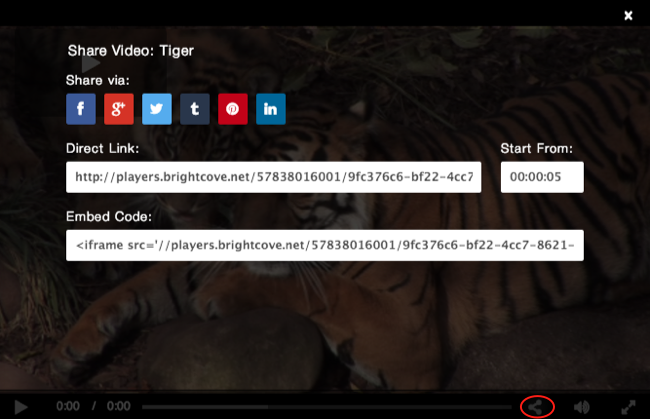
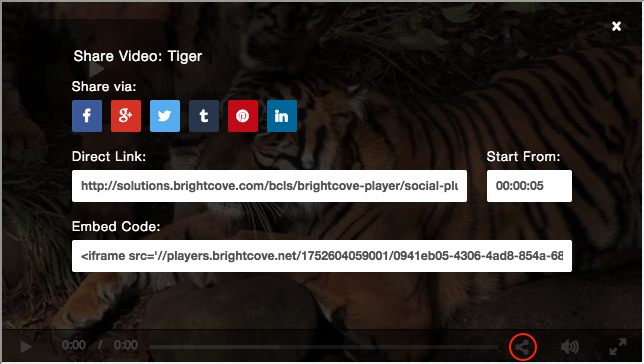
Update BC player social plugin

diff --git a/en/video-cloud/brightcove-player/guides/social-media-plugin.html b/en/video-cloud/brightcove-player/guides/social-media-plugin.html
@@ -46,14 +46,16 @@
 				<!-- Place document intro sentence(s) here -->
 				<p>The social media plugin enables users to share a video through Facebook, Google+, Twitter, Tumblr, Pinterest and LinkedIn.</p>
 				<p>Let's say you have a web page with a Brightcove player on it. Now, you want to let users share the video across social media services. This plugin enables your player for video sharing, as shown here.</p>
-				<div><img src="/en/video-cloud/brightcove-player/assets/social-media-plugin1.png" alt="Social Media Share Interface"></div>
-				<div class="BCL-aside">
+				<div><img src="../assets/social-media-plugin1.png" alt="Social Media Share Interface"></div>
+				<div class="BCL-aside" style="padding-top:1em;padding-left:1em;padding-right:1em;">
 					<p>Note: You will need to set a width and height for the player for two reasons:</p>
 					<ol>
 						<li>If no width or height are set there will be no values to pass to Twitter, which will cause the Twitter card not to validate.</li>
 						<li>The width needs to be wide enough to accommodate the social plugin's interface as shown in the screenshot above. You can also have the interface automatically appear on video end using the <code>displayAfterVideo</code> property, documented below.</li>
 					</ol>  				
 				</div>
+				<br/>
+				<p>Click <a href="http://solutions.brightcove.com/bcls/brightcove-player/social-plugin/social-media.html">here</a> for a working sample of a web page that uses the plugin and includes the social media meta tags.</p>
 			</div>
 			
 			<div id="overview" class="section">
@@ -61,100 +63,30 @@
 				<p>This document walks you through the steps to enable social media sharing for an existing HTML page with your Brightcove player on it. This assumes that you have created a Brightcove player with the proper configuration information and have added the player to an HTML page.</p> 
 				<p>To add the social media plugin, follow these steps:</p>	
 				<ol>
-					<li>Update your Brightcove player using the <code>PATCH</code> method to add and <a href="#implementplugin">implement the plugin</a>.</li>
 					<li>Review the available <a href="#properties">properties</a> to customize the social media plugin.</li>
-					<li>Update your Brightcove player using the <code>PATCH</code> method to <a href="#customizeplugin">customize plugin</a> services.</li>
+					<li><p><a href="#playersmodule">Implement using Players module</a>. This will update your Brightcove player to use the social media plugin.</p></li>
+					<p class="BCL-aside">You will need the URL to the HTML page with your Brightcove player.</p>
+<!--
 					<ul>
-						<li>You will need the URL to the HTML page with your Brightcove player.</li>
+						<li></li>
+						<li><a href="#implementcode">Implement using code</a></li>
 					</ul>
+-->
 					<li>Add social <a href="#metatags">meta tags</a> to your player's HTML page.</li>
+					<li><a href="#validate">Validate</a> the meta tags on your HTML page for FaceBook and Twitter.</li>
 				</ol>
-				<p>In a browser, open the HTML page with your Brightcove player and use the social sharing icon in the player to share your video. </p>
-				<p>Click <a href="http://solutions.brightcove.com/bcls/brightcove-player/social-plugin/social-media.html">here</a> for a working sample of a web page that uses the plugin and includes the social media meta tags.</p>
+				<p>In a browser, open the HTML page with your Brightcove player and use the social sharing icon in the player to share your video.</p>
 			</div>
-			
-		<div id="playersmodule" class="section">
-			<h2>Implement using Players module</h2>
-			<p>To implement the Social Plugin using the Players module, follow these steps:</p>
-			<ol>
-				<li>Open the Players module and locate the player.</li>
-				<li>Click the link for the player to open the player properties.</li>
-				<li>Locate the <strong>Plugins</strong> section and click <strong>Edit</strong>.</li>
-				<li>The JavaScript for the plugin is provided and will not change for different plugin implementations. For the <strong>JavaScript URL</strong>, enter:</li>
-				<p><pre> https://players.brightcove.net/videojs-social/dist/videojs-social.min.js</pre></p>
-				<li>The CSS for the plugin is provided and will not change for different plugin implementations. For the <strong>CSS URL</strong>, enter:<br/>
-				<p><pre> https://players.brightcove.net/videojs-social/dist/videojs-social.css</pre></p></li>
-				<li>For the <strong>Name</strong>, enter <strong>social</strong>.</li>
-				<li><p>Enter the plugin options. The example below will display a social media button at the bottom of the player to share this video with several social media sites.</p></li>
-				<p><code data-gist-id="c2fa720dad97e5688f02" data-gist-hide-footer="true" data-gist-line="2-17"></code></p>
-	
-				<div><img src="assets/socialize-plugin.png"></div>
-                
-                <li>Click <strong>Save</strong> and then <strong>Publish</strong> the player.</li>
-			</ol>
-        </div>
-	
-		<div id="implementcode" class="section">
-			<h2>Implement using code</h2>
-			<p>To implement the plugin using custom code, you will configure the following plugin properties:</p>
-			<ul>
-				<li><code>scripts</code> - JavaScript supplied for the plugin and will not change for different plugin implementations</li>
-				<li><code>stylesheets </code>- CSS supplied to you for the plugin and will not change for different plugin implementations</li>
-				<li><code>plugin name</code> - Always <strong>social</strong></li>
-				<li><code>plugin options</code> -  Contains an array of properties and values</li>
-			</ul>
-			<p>To add the plugin to your code, follow these steps:</p>
-	  <ol>
-		  <li>Add the overlay plugin default style sheet. You can use the default style sheet, or create your own styles.</li>
-		  <p><code data-gist-id="c2fa720dad97e5688f02" data-gist-hide-footer="true" data-gist-line="58"></code></p>
-		  <li>Add the <code>videojs-social.js</code> script file to include the overlay plugin. This plugin will automatically register itself when included in your page.</li>
-		  <p class="BCL-aside">Note: This plugin script must be placed after the last <code>&lt;script&gt;</code> tag for your player embed code.</p>
-		  <p><code data-gist-id="c2fa720dad97e5688f02" data-gist-hide-footer="true" data-gist-line="72-81" data-gist-highlight-line="81"></code></p>
-		  
-		  
-		  
-<!--		  continue updating here-->
-		  <li>Get a reference to the Brightcove player. In this example, we are creating a variable named <code>myPlayer</code> and assigning it a reference to the player.</li>
-		  <p><code data-gist-id="9b0fe987da18427d2df6" data-gist-hide-footer="true" data-gist-line="73-75"></code></p>
-				<p>To display an overlay message, use the <code>options</code> property to pass data to the plugin. This example shows how to include 3 overlay messages:</p>	
-		<ul>
-			<li>First overlay:
-				<ul>
-					<li>This is displayed when the <code>play</code> event is dispatched and is hidden when the <code>pause</code> event is dispatched.</li>
-				</ul>
-			</li>
-			<li>Second overlay: 
-				<ul>
-					<li>This is displayed when the video playback passes 5 seconds and is hidden when the video playback passes 10 seconds.</li>
-					<li>This is positioned in the bottom right corner of the player.</li>
-				</ul>
-			</li>
-			<li>Third overlay:
-				<ul>
-					<li>This is displayed when the video playback passes 12 seconds and is hidden when the video playback passes 17 seconds.</li>
-					<li>This is positioned in the bottom left corner of the player.</li>
-					<li>Since this overlay does not have a <code>content</code> property defined, it uses the default value of <strong>Default overlay content</strong>, defined before the <code>overlays</code> array.</li>
-				</ul>
-			</li>
-		</ul>
-		<p>If you include the overlay script in your code, you can define messages as follows:</p>
-		<p><code data-gist-id="9b0fe987da18427d2df6" data-gist-hide-footer="true" data-gist-line="73-95"></code></p> 
-			</ol>
-		</div>
-			
-			
-
 			
 		<div id="properties" class="section">
 	        <h2>Properties</h2>
 	        <p>For plugins in general, the <code>options</code> object is used to pass data to the plugin to customize initialization. In this case, you can use the following properties in this object:</p>
 			<ul>
-				<li><code>deeplinking</code>: 
+				<li><code>title</code>: 
 					<ul>
-						<li>The type is boolean with a default value of <code>false</code>.</li>
-						<li>This enables/disables deep linking for the shared video. This feature allows a user to start viewing a video from a specific offset. For more details, view the <a href="//docs.brightcove.com/en/video-cloud/brightcove-player/guides/deep-linking.html">Deep Linking</a> document.</li>
+						<li>The type is a string.</li>
+						<li>This is a custom title that will appear when your video is shared.</li>
 					</ul>
-					<p class="BCL-aside">Note: The deep linking feature currently only works with Twitter.</p>
 				</li>
 				<li><code>description</code>: 
 					<ul>
@@ -162,11 +94,24 @@
 						<li>This is a custom description that will be used by the social services which support it.</li>
 					</ul>
 				</li>
+				<li><code>url</code>: 
+					<ul>
+						<li>The type is a string.</li>
+						<li>This is the URL that points to your custom web page which has your video and the meta tags for sharing. Refer to the <a href="#metatags">meta tags</a> section for details on how to add the social media metadata to your player page.</li>
+					</ul>
+				</li>
 				<li><code>displayAfterVideo</code>: 
 					<ul>
 						<li>The type is a boolean.</li>
 						<li>Causes the social screen to automatically show on an <code>ended</code> event</li>
 					</ul>
+				</li>
+				<li><code>deeplinking</code>: 
+					<ul>
+						<li>The type is boolean with a default value of <code>false</code>.</li>
+						<li><p>This enables/disables deep linking for the shared video. This feature allows a user to start viewing a video from a specific offset. For more details, view the <a href="//docs.brightcove.com/en/video-cloud/brightcove-player/guides/deep-linking.html">Deep Linking</a> document.</p></li>
+					</ul>
+					<p class="BCL-aside">Note: The deep linking feature currently only works with Twitter.</p>
 				</li>
 				<li><code>offset</code>: 
 					<ul>
@@ -208,46 +153,86 @@
 						</ul>
 					</ul>
 				</li>
-				<li><code>title</code>: 
-					<ul>
-						<li>The type is a string.</li>
-						<li>This is a custom title that will appear when your video is shared.</li>
-					</ul>
-				</li>
-				<li><code>url</code>: 
-					<ul>
-						<li>The type is a string.</li>
-						<li>This is the URL that points to your custom web page which has your video and the meta tags for sharing. Refer to the <a href="#metatags">meta tags</a> section for details on how to add the social media metadata to your player page.</li>
-					</ul>
-				</li>
 			</ul>
 	      </div>	
-		<div id="customizeplugin" class="section">
-	        <h2>Customize plugin</h2>
-			<p>Update your Brightcove player using the <code>PATCH</code> method to customize the social media plugin. Here the properties are set within the <code>options</code> object as follows:</p>
-			<p class="BCL-aside">Note: The <code>url</code> property value is the URL on your server to the HTML page with your Brightcove player.</p>
-			<p><code data-gist-id="c2fa720dad97e5688f02" data-gist-hide-footer="true" data-gist-line="21-46"></code></p>  
-	  </div>	
+			
+		<div id="playersmodule" class="section">
+			<h2>Implement using Players module</h2>
+			<p>To implement the Social Plugin using the Players module, follow these steps:</p>
+			<ol>
+				<li>Open the Players module and locate the player.</li>
+				<li>Click the link for the player to open the player properties.</li>
+				<li>Locate the <strong>Plugins</strong> section and click <strong>Edit</strong>.</li>
+				<li>The JavaScript for the plugin is provided and will not change for different plugin implementations. For the <strong>JavaScript URL</strong>, enter:</li>
+				<p><pre> https://players.brightcove.net/videojs-social/dist/videojs-social.min.js</pre></p>
+				<li>The CSS for the plugin is provided and will not change for different plugin implementations. For the <strong>CSS URL</strong>, enter:<br/>
+				<p><pre> https://players.brightcove.net/videojs-social/dist/videojs-social.css</pre></p></li>
+				<li>For the <strong>Name</strong>, enter <strong>social</strong>.</li>
+				<li><p>Enter the plugin options. The example below will display a social media button at the bottom of the player to share this video with several social media sites. The social sharing screen will automatically display on video end.</p></li>
+				<ul>
+					<li>Lines 3-4: Set the name and description for your video.</li>
+					<li>Line 5: Defines the URL for your custom web page with your video player and social sharing meta tags.</li>
+					<li>Line 6: Sets the social sharing screen to display when the video ends.</li>
+					<li>Lines 7-8: For Twitter, this allows a user to start viewing the video after a 5 second offset.</li>
+					<li>Lines 9-16: Enables social sharing for Facebook, Google, Twitter, Tumblr, Pinterest and LinkedIn.</li>
+				</ul>
+				<p><code data-gist-id="c2fa720dad97e5688f02" data-gist-hide-footer="true" data-gist-line="2-17"></code></p>
+	
+				<div><img src="../assets/social-media-plugin.png"></div>
+                
+                <li>Click <strong>Save</strong> and then <strong>Publish</strong> the player.</li>
+			</ol>
+        </div>
+	
+<!--
+		<div id="implementcode" class="section">
+			<h2>Implement using code</h2>
+			<p>To implement the plugin using custom code, you will configure the following plugin properties:</p>
+			<ul>
+				<li><code>scripts</code> - JavaScript supplied for the plugin and will not change for different plugin implementations</li>
+				<li><code>stylesheets </code>- CSS supplied to you for the plugin and will not change for different plugin implementations</li>
+				<li><code>plugin name</code> - Always <strong>social</strong></li>
+				<li><code>plugin options</code> -  Contains an array of properties and values</li>
+			</ul>
+			<p>To add the plugin to your code, follow these steps:</p>
+	  <ol>
+		  <li>Add the overlay plugin default style sheet. You can use the default style sheet, or create your own styles.</li>
+		  <p><code data-gist-id="c2fa720dad97e5688f02" data-gist-hide-footer="true" data-gist-line="58"></code></p>
+		  <li>Add the <code>videojs-social.js</code> script file to include the overlay plugin. This plugin will automatically register itself when included in your page.</li>
+		  <p class="BCL-aside">Note: This plugin script must be placed after the last <code>&lt;script&gt;</code> tag for your player embed code.</p>
+		  <p><code data-gist-id="c2fa720dad97e5688f02" data-gist-hide-footer="true" data-gist-line="72-81" data-gist-highlight-line="81"></code></p>
+
+		  <li>Get a reference to the Brightcove player. In this example, we are creating a variable named <code>myPlayer</code> and assigning it a reference to the player.</li>
+		  <p><code data-gist-id="9b0fe987da18427d2df6" data-gist-hide-footer="true" data-gist-line="73-75"></code></p>
+				<p>To display an overlay message, use the <code>options</code> property to pass data to the plugin. This example shows how to include 3 overlay messages:</p>	
+		<p>If you include the overlay script in your code, you can define messages as follows:</p>
+		<p><code data-gist-id="9b0fe987da18427d2df6" data-gist-hide-footer="true" data-gist-line="73-95"></code></p> 
+			</ol>
+		</div>	
+-->
 			
 	  <div id="metatags" class="section">
         <h2>Meta tags</h2>
-		<p>After you update your Brightcove player using the <code>PATCH</code> method in the previous step, you will get a response whick looks like this: </p>
-		<p><code data-gist-id="c2fa720dad97e5688f02" data-gist-hide-footer="true" data-gist-line="206-209" data-gist-highlight-line="206"></code></p>
+		<p>After you update your Brightcove player to use the social sharing plugin in the previous section, you are ready to add social meta tags to your HTML page.</p>
+		<p>These meta tags allow social sharing sites to embed your video players and thumbnails in the post.</p>
 		<p>To add social media meta tags to the HTML page with your Brightcove player, follow these steps:</p>
 		<ol>
-			<li>Take the value for the <code>preview_url</code> and paste that into a browser. You should see your player.</li>
-			<p class="BCL-aside">Note: You can also publish your player with the updates and use the <code>url</code> value. The preview url value is used here since there is no caching of the updates, so no waiting is needed to use it.</p>
-			<li>In your browser's address bar, change <code>index.html</code> to <code>social.html</code>.</li>
-			<div><img src="/en/video-cloud/brightcove-player/assets/social-media-plugin2.png" alt="Preview URL"></div>
+			<li>Once your player has been published, click the <strong>Embed Code &amp; URL</strong> button and choose the <strong>Published Player</strong> link.</li>
+			<li>Select the <strong>Player URL</strong> link. You should see your player in a new tab or window.</li>
+			<li>In your browser's address bar, change the URL from <code>index.html</code>:</li>
+			<div><img src="../assets/social-media-plugin2.png" alt="Preview URL"></div>
+			<li>To <code>social.html</code>:</li>
+			<div><img src="../assets/social-media-plugin3.png" alt="Preview URL"></div>
 			<li>Select <strong>enter</strong>. You should now see the following page:</li>
-			<div><img src="/en/video-cloud/brightcove-player/assets/social-media-plugin3.png" alt="Enabling Social Sharing Page"></div>
+			<div><img src="../assets/social-media-plugin4.png" alt="Enabling Social Sharing Page"></div>
 			<li>In the browser, scroll down to the <strong>&lt;code&gt;</strong> section and copy the meta tag code.</li>
-			<li>Edit the HTML page with your Brightcove player. In the <strong>&lt;head&gt;</strong> section, paste the meta tag code. These tags are used by the social media services to include thumbnail images and your video in the post.</li>
-			<p><code data-gist-id="c2fa720dad97e5688f02" data-gist-hide-footer="true" data-gist-line="57-81"></code></p>
+			<li><p>Edit the HTML page with your Brightcove player. In the <strong>&lt;head&gt;</strong> section, paste the meta tag code. These tags are used by the social media services to include thumbnail images and your video in the post.</p></li>
+			<p><code data-gist-id="c2fa720dad97e5688f02" data-gist-hide-footer="true" data-gist-line="19-69"></code></p>
 			<li>Save your changes. You are now ready to use the social media sharing interface with your player.</li>
 		</ol> 
-		<p class="BCL-aside">Note: You will want to provide a secure URL value (<code>&lt;meta property="og:video:secure_url" content=""/&gt;</code>) for Facebook users that use secure browsing (HTTPS). Without this setting, the video  will not play on the Facebook wall, rather the poster image will link to a separate page for viewing. This is a manual process that needs to be done after you retrieve the social media meta tags.</p>
+		<p class="BCL-aside" style="padding:1em;">Note: You will want to provide a secure URL value (<code>&lt;meta property="og:video:secure_url" content=""/&gt;</code>) for Facebook users that use secure browsing (HTTPS). Without this setting, the video  will not play on the Facebook wall, rather the poster image will link to a separate page for viewing. This is a manual process that needs to be done after you retrieve the social media meta tags.</p>
       </div>
+	
       <div id="validate" class="section">
         <h2>Validate</h2>
         <p>Once you have followed the steps to include the meta tags on your page you can validate the page for both Facebook and Twitter.</p>
@@ -255,14 +240,6 @@
         <p>For Twitter, go to the <a href="https://dev.twitter.com/docs/cards/validation/validator">Card Validator</a>, select <strong>Validate and Apply</strong>, paste the URL to the page that contains the meta tags and click <strong>Go!</strong> to validate. An added advantage to validating is that Twitter will then ask you to verify your website and you will go on the waiting list to be approved for Twitter Cards.</p>
         <p>If errors occur in either validation process, update the player configuration as needed.</p>
       </div>
-			
-<!--
-	  <div id="sharevideo" class="section">
-        <h2>Share video</h2>
-		<p>To display an overlay message, use the <code>options</code> property to pass data to the plugin. This example shows how to include 3 overlay messages:</p>
-		
-      </div>
--->
 			
 			<div class="section" id="BCLreferences">
 				<h2>Related Topics</h2>
